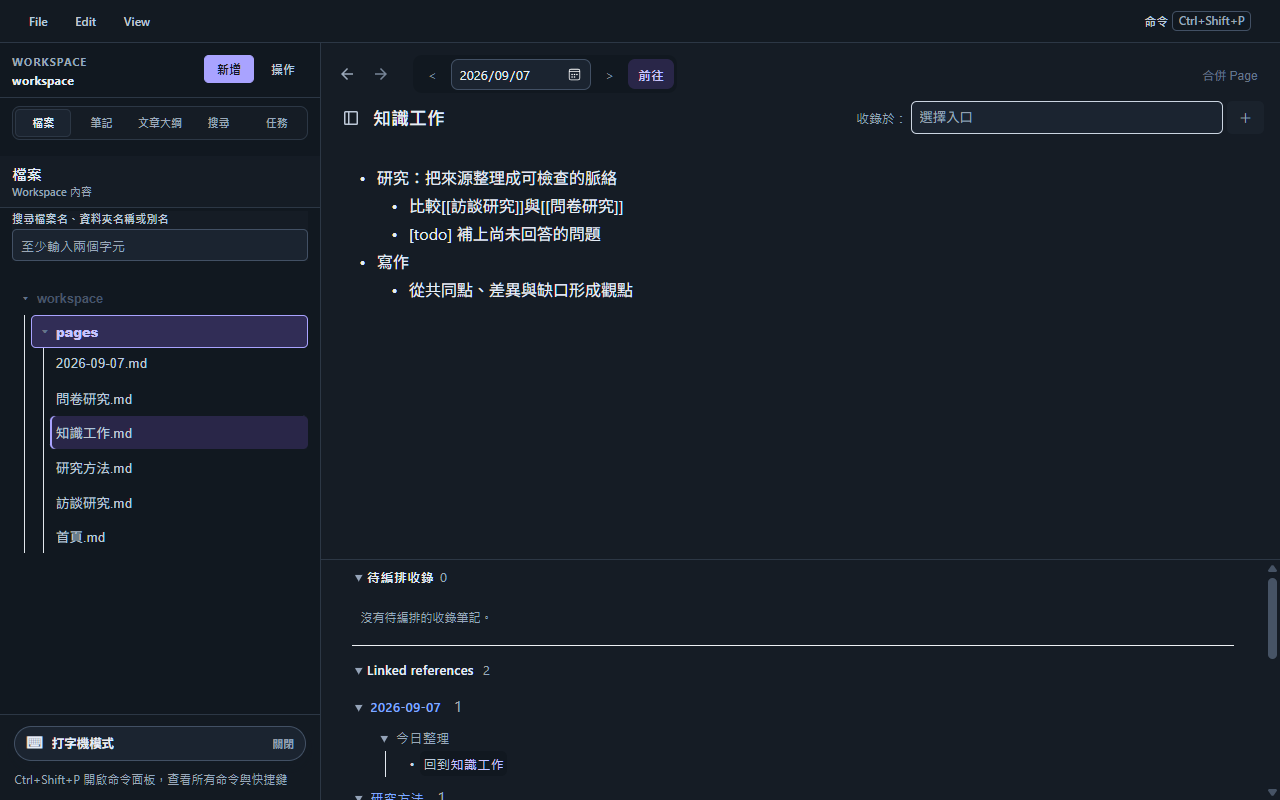
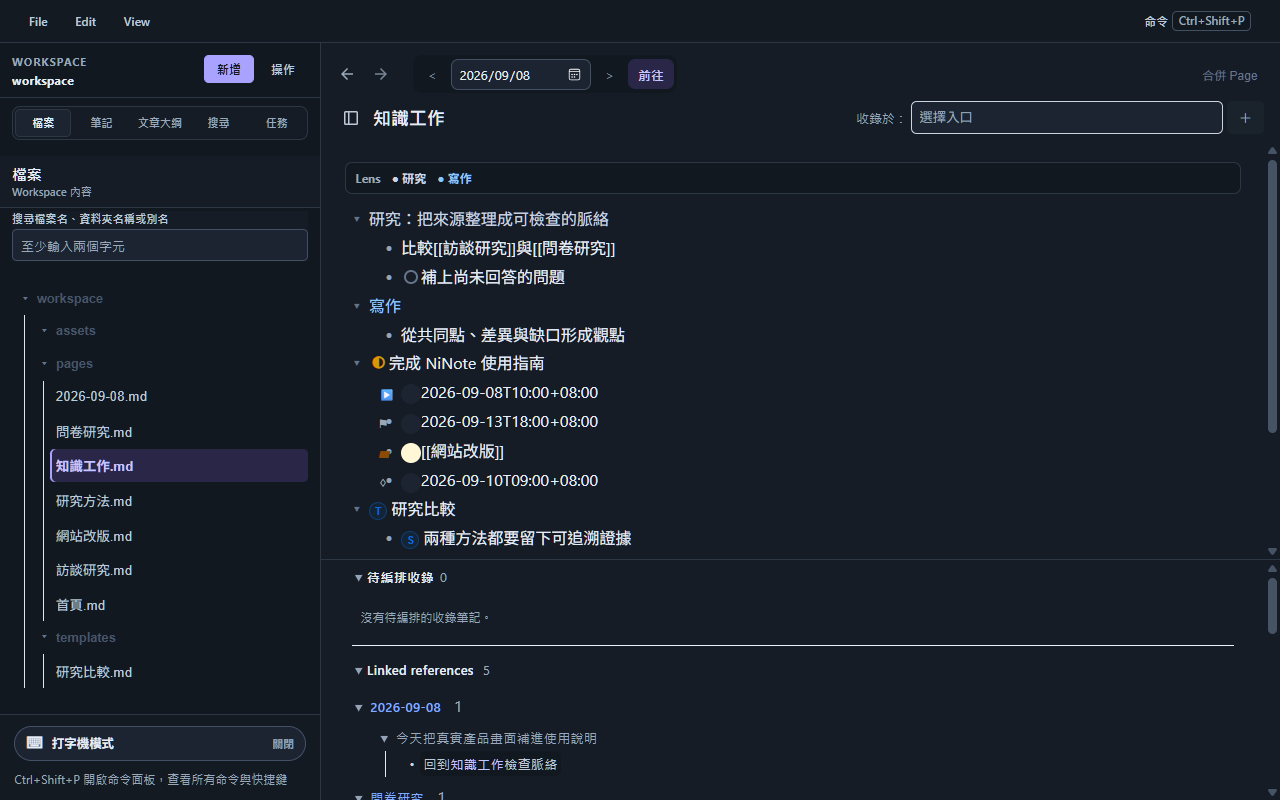
讓使用說明呈現真實 NiNote 畫面

diff --git a/app/guide.css b/app/guide.css
@@ -49,6 +49,13 @@
 .docs-code-bar { display: flex; align-items: center; justify-content: space-between; min-height: 2.55rem; padding: 0 .8rem; border-bottom: 1px solid var(--line); background: var(--preview-bar); color: var(--quiet); font-family: ui-monospace, SFMono-Regular, Consolas, monospace; font-size: .67rem; text-transform: uppercase; }
 .docs-code-bar button { display: inline-flex; align-items: center; gap: .35rem; padding: .3rem .5rem; border: 1px solid var(--line); border-radius: .38rem; background: var(--surface-soft); color: var(--muted); cursor: pointer; font-size: .68rem; }
 .docs-code pre { margin: 0; padding: 1.1rem 1.25rem; overflow-x: auto; color: var(--text-soft); font-family: 'Cascadia Code', 'SFMono-Regular', Consolas, monospace; font-size: .82rem; line-height: 1.8; tab-size: 2; }
+.docs-media { margin: 1.5rem 0 2rem; }
+.docs-media a { position: relative; display: block; overflow: hidden; border: 1px solid var(--line); border-radius: .72rem; background: var(--preview-editor); box-shadow: 0 1.1rem 2.8rem color-mix(in srgb, var(--shadow) 28%, transparent); }
+.docs-media img { display: block; width: 100%; height: auto; aspect-ratio: 8 / 5; object-fit: contain; }
+.docs-media-open { position: absolute; right: .7rem; bottom: .7rem; display: inline-flex; align-items: center; gap: .35rem; padding: .42rem .58rem; border: 1px solid rgb(255 255 255 / 18%); border-radius: .42rem; background: rgb(7 11 17 / 82%); color: #e8edf6; font-size: .7rem; opacity: 0; transform: translateY(.2rem); transition: opacity 150ms ease, transform 150ms ease; }
+.docs-media a:hover .docs-media-open, .docs-media a:focus-visible .docs-media-open { opacity: 1; transform: none; }
+.docs-media a:focus-visible { outline: 2px solid var(--cyan); outline-offset: 3px; }
+.docs-media figcaption { margin-top: .75rem; color: var(--quiet); font-size: .78rem; line-height: 1.65; }
 .docs-pagination { display: grid; grid-template-columns: 1fr 1fr; gap: 1rem; margin-top: 5rem; padding-top: 2rem; border-top: 1px solid var(--line); }
 .docs-pagination a { display: flex; align-items: center; gap: .7rem; padding: 1rem; border: 1px solid var(--line); border-radius: .65rem; color: var(--text-soft); font-size: .82rem; transition: border-color 150ms ease, transform 150ms ease; }
 .docs-pagination a:hover { border-color: color-mix(in srgb, var(--cyan) 45%, var(--line)); transform: translateY(-2px); }.docs-pagination a:last-child { justify-content: flex-end; text-align: right; }.docs-pagination small { display: block; margin-bottom: .18rem; color: var(--quiet); font-size: .65rem; }
@@ -57,23 +64,6 @@
 .docs-toc > span { display: block; margin-bottom: .7rem; color: var(--text-soft); font-size: .72rem; font-weight: 700; }
 .docs-toc a { display: block; margin: .4rem 0; color: var(--quiet); font-size: .72rem; line-height: 1.5; transition: color 140ms ease; }.docs-toc a:hover { color: var(--cyan); }
 
-.concept-animation { position: relative; display: grid; grid-template-columns: 1fr 3.5rem 1fr 3.5rem 1fr; align-items: center; min-height: 13rem; margin: 3rem 0 1rem; padding: 1.4rem; overflow: hidden; border: 1px solid var(--line); border-radius: .8rem; background: radial-gradient(circle at 50% 50%, color-mix(in srgb, var(--cyan) 7%, transparent), transparent 65%), var(--surface); }
-.concept-source, .concept-structure, .concept-views { height: 8.5rem; border: 1px solid var(--line); border-radius: .6rem; background: var(--surface-raised); }
-.concept-source { padding: .8rem; }.concept-caption { display: flex; align-items: center; gap: .4rem; margin-bottom: 1rem; color: var(--text-soft); font-size: .7rem; font-weight: 700; }
-.code-line { display: block; height: .4rem; margin: .65rem 0; border-radius: 999px; background: linear-gradient(90deg, color-mix(in srgb, var(--cyan) 70%, transparent), color-mix(in srgb, var(--cyan) 8%, transparent)); transform-origin: left; animation: type-line 4.8s ease-in-out infinite; }
-.code-line:nth-child(3) { animation-delay: .28s; }.code-line:nth-child(4) { animation-delay: .56s; }.code-line.indent { margin-left: 1rem; }.line-long { width: 90%; }.line-medium { width: 70%; }.line-short { width: 50%; }
-.concept-rail { position: relative; height: 1px; background: var(--line-strong); }.concept-rail::after { content: ''; position: absolute; top: -3px; right: -1px; width: 7px; height: 7px; border-top: 1px solid var(--cyan); border-right: 1px solid var(--cyan); transform: rotate(45deg); }
-.concept-rail i { position: absolute; top: -3px; left: 0; width: 7px; height: 7px; border-radius: 50%; background: var(--cyan); box-shadow: 0 0 .8rem var(--cyan); animation: travel 2.4s ease-in-out infinite; }
-.concept-structure { position: relative; }.structure-node { position: absolute; display: grid; place-items: center; width: 3.2rem; height: 2rem; border: 1px solid color-mix(in srgb, var(--cyan) 35%, var(--line)); border-radius: 999px; background: var(--surface); color: var(--muted); font-size: .62rem; animation: pulse-node 4.8s ease-in-out infinite; }.root-node { top: .8rem; left: calc(50% - 1.6rem); }.child-one { bottom: .8rem; left: .7rem; }.child-two { right: .7rem; bottom: .8rem; }
-.structure-link { position: absolute; top: 3.45rem; left: 50%; width: 1px; height: 2rem; background: var(--line-strong); transform-origin: top; }.link-one { transform: rotate(45deg); }.link-two { transform: rotate(-45deg); }
-.concept-views { display: grid; grid-template-columns: 1fr 1fr; gap: .4rem; padding: .55rem; }.concept-views > div { display: flex; flex-direction: column; align-items: center; justify-content: center; gap: .25rem; border: 1px solid var(--line); border-radius: .4rem; color: var(--cyan); font-size: .55rem; animation: view-pop 4.8s ease-in-out infinite; }.concept-views > div:nth-child(2) { animation-delay: .25s; }.concept-views > div:nth-child(3) { animation-delay: .5s; }
-.matrix-mini { display: grid !important; grid-template-columns: 1fr 1fr; gap: .16rem !important; padding: .5rem; }.matrix-mini i { width: 100%; height: 100%; border-radius: .12rem; background: color-mix(in srgb, var(--violet) 45%, transparent); }
-
-@keyframes type-line { 0%, 12% { transform: scaleX(0); opacity: .2; } 35%, 78% { transform: scaleX(1); opacity: 1; } 100% { transform: scaleX(0); opacity: .2; } }
-@keyframes travel { 0% { transform: translateX(0); opacity: 0; } 20% { opacity: 1; } 80% { opacity: 1; } 100% { transform: translateX(3.2rem); opacity: 0; } }
-@keyframes pulse-node { 0%, 25% { border-color: var(--line); } 45%, 75% { border-color: var(--cyan); box-shadow: 0 0 1rem color-mix(in srgb, var(--cyan) 18%, transparent); } 100% { border-color: var(--line); } }
-@keyframes view-pop { 0%, 45% { opacity: .35; transform: translateY(4px); } 65%, 90% { opacity: 1; transform: translateY(0); } 100% { opacity: .35; transform: translateY(4px); } }
-
 @media (max-width: 1180px) {
   .docs-layout { grid-template-columns: 15.5rem minmax(0, 50rem); gap: 2.5rem; }.docs-toc { display: none; }
 }
@@ -81,13 +71,10 @@
   .docs-header { grid-template-columns: 1fr auto; padding: 0 .8rem; }.docs-menu-button { display: grid; }.docs-top-nav { display: none; }.docs-theme-switch span { display: none; }.docs-theme-switch button { width: 2rem; justify-content: center; padding: 0; }
   .docs-layout { display: block; padding: 4.25rem 1.1rem 0; }.docs-sidebar { position: fixed; top: 4.25rem; bottom: 0; left: 0; z-index: 40; width: min(20rem, 88vw); height: auto; padding: 1.2rem; border-right: 1px solid var(--line); background: var(--background); transform: translateX(-105%); transition: transform 180ms ease; }.docs-sidebar.open { transform: translateX(0); box-shadow: 1rem 0 3rem var(--shadow); }
   .docs-article { max-width: 50rem; margin: 0 auto; padding-top: 3rem; }
-  .concept-animation { grid-template-columns: 1fr; gap: 1rem; }.concept-rail { width: 1px; height: 2rem; margin: 0 auto; }.concept-rail::after { top: auto; right: -3px; bottom: -1px; transform: rotate(135deg); }.concept-rail i { top: 0; left: -3px; animation: travel-down 2.4s ease-in-out infinite; }.concept-source, .concept-structure, .concept-views { width: min(18rem, 100%); margin: 0 auto; }
 }
 @media (max-width: 520px) {
   .docs-layout { padding-inline: .85rem; }.docs-article h1 { font-size: 2.5rem; }.docs-pagination { grid-template-columns: 1fr; }.docs-pagination > span { display: none; }
 }
-@keyframes travel-down { 0% { transform: translateY(0); opacity: 0; } 20% { opacity: 1; } 80% { opacity: 1; } 100% { transform: translateY(2rem); opacity: 0; } }
-
 @media (prefers-reduced-motion: reduce) {
-  .code-line, .concept-rail i, .structure-node, .concept-views > div { animation: none !important; opacity: 1; transform: none; }
+  .docs-media-open { transition: none; }
 }

diff --git a/app/guide-content.ts b/app/guide-content.ts
@@ -3,6 +3,7 @@ export type DocBlock =
   | { type: 'list'; items: string[] }
   | { type: 'steps'; items: string[] }
   | { type: 'code'; language: string; code: string }
+  | { type: 'media'; src: string; alt: string; caption: string; width: number; height: number }
   | { type: 'note'; tone?: 'info' | 'warning'; title: string; text: string };
 
 export type DocSection = {
@@ -30,7 +31,101 @@ export const categories = [
   { title: '檔案與產品邊界', pages: ['files', 'scope'] },
 ];
 
-export const docs: DocPage[] = [
+type GuideMediaPlacement = {
+  sectionId: string;
+  block: Extract<DocBlock, { type: 'media' }>;
+};
+
+const media = (src: string, alt: string, caption: string): GuideMediaPlacement['block'] => ({
+  type: 'media', src, alt, caption, width: 1280, height: 800,
+});
+
+export const guideMediaByPage: Record<string, GuideMediaPlacement[]> = {
+  'overview': [{ sectionId: 'what-is-ninote', block: media(
+    '../product-media/guide-workspace.png',
+    'NiNote Desktop 主工作區，左側是本機 Workspace 檔案，中間以 NiMode 編輯知識工作 Page，右下顯示反向連結。',
+    '實際 NiNote Desktop：一份本機 Markdown，同時提供檔案、Block 編輯、Lens、Task 與 References。',
+  ) }],
+  'workspace': [{ sectionId: 'choose-folder', block: media(
+    '../product-media/guide-files.png',
+    'NiNote Desktop 的檔案側欄展開 workspace、pages、templates 與 assets 資料夾。',
+    '從左側「檔案」管理 Working Folder；初始化後的 Workspace 仍是一般資料夾與 Markdown 檔案。',
+  ) }],
+  'editor-modes': [
+    { sectionId: 'mode-comparison', block: media('../product-media/workspace-nimode.png', 'NiNote 的 NiMode，以可摺疊 Block、Lens、Task 狀態與語意圖示呈現 Markdown。', 'NiMode：以 Block 階層與結構操作為中心。') },
+    { sectionId: 'mode-comparison', block: media('../product-media/workspace-rendered.png', 'NiNote 的 Rendered Mode，在同一工作區呈現接近閱讀結果的 Markdown。', 'Rendered Mode：保留 Markdown 語意的自然編輯畫面。') },
+    { sectionId: 'mode-comparison', block: media('../product-media/workspace-source.png', 'NiNote 的 Source Mode，直接顯示同一份 Markdown 原始文字。', 'Source Mode：檢查與精確編輯真正保存的 Markdown。') },
+  ],
+  'blocks': [{ sectionId: 'block-basics', block: media(
+    '../product-media/workspace-nimode.png',
+    'NiMode 中的多層 Block、摺疊控制、Task Block 與 Template Block。',
+    'NiMode 直接把 Markdown list hierarchy 呈現成可摺疊、可縮排的 Block。',
+  ) }],
+  'appearance': [{ sectionId: 'app-theme', block: media(
+    '../product-media/guide-appearance.png',
+    'NiNote View 選單展開，顯示 NiMode、Rendered Mode、Source Mode、主題與 Markdown 樣式選項。',
+    'View 選單同時管理編輯模式、介面主題、文件樣式與各種衍生 View。',
+  ) }],
+  'page-links': [{ sectionId: 'references', block: media(
+    '../product-media/guide-page-links.png',
+    '知識工作 Page 內含可點擊 Page Links，右側 Links View 列出多個 Linked references。',
+    'Page Link 留在 Markdown；Links View 從整個 Workspace 找回引用它的原始脈絡。',
+  ) }],
+  'templates': [{ sectionId: 'trace-instances', block: media(
+    '../product-media/guide-templates.png',
+    'NiNote 開啟 templates 研究比較定義，Links View 顯示 Template references 與 Slot references。',
+    'Template definition、instance 與每個 Slot 的引用，都能從正式 Links View 追溯。',
+  ) }],
+  'lens': [{ sectionId: 'set-lens', block: media(
+    '../product-media/guide-lens.png',
+    'NiMode 顯示研究與寫作兩個 Semantic Lens，Block 文字依 Lens 採用穩定色彩。',
+    'Lens 是 Markdown 內的可攜標記；NiMode 隱藏 raw marker，保留可辨識的語意呈現。',
+  ) }],
+  'markmap': [{ sectionId: 'open-markmap', block: media(
+    '../product-media/guide-markmap.png',
+    'NiNote MarkMap 原生視窗，中央是目前 Page 的心智圖，頂部有縮放、重新收合與主動回想控制。',
+    'MarkMap 從目前 Page 的 Block hierarchy 建立，並在獨立視窗提供導覽與主動回想。',
+  ) }],
+  'matrix': [{ sectionId: 'read-result', block: media(
+    '../product-media/guide-matrix.png',
+    'NiNote Matrix 顯示知識工作 Page 的比較面向、欄位與共有或空值分類。',
+    'Matrix 是唯讀分類檢查器：看共同、部分與獨有面向，再導回原始 Block。',
+  ) }],
+  'graphs': [
+    { sectionId: 'page-graph', block: media('../product-media/guide-page-graph.png', 'NiNote Page Graph 以目前知識工作 Page 為中心，顯示連入 Page 與導覽控制。', 'Page Graph：聚焦目前 Page 的反向連結脈絡。') },
+    { sectionId: 'workspace-graph', block: media('../product-media/guide-workspace-graph.png', 'NiNote Workspace Graph 顯示整個 Workspace 的 Page 關係網路與篩選控制。', 'Workspace Graph：從所有可解析 Page Links 重建全域關係。') },
+  ],
+  'search-navigation': [
+    { sectionId: 'search-levels', block: media('../product-media/guide-search.png', 'NiNote Workspace 搜尋側欄顯示證據關鍵字在三個 Markdown 檔案中的結果與原文片段。', 'Workspace 搜尋保留檔案分組、命中位置與上下文。') },
+    { sectionId: 'command-palette', block: media('../product-media/guide-command-palette.png', 'NiNote 命令面板列出檔案、Workspace、導覽、View 與 Editor 命令及快捷鍵。', '命令面板集中列出目前可用的命令、快捷鍵與不可執行原因。') },
+  ],
+  'journal': [{ sectionId: 'open-journal', block: media(
+    '../product-media/guide-journal.png',
+    'NiNote Daily Journal 顯示日期導覽、當日 Markdown Page 與回到知識工作的 Page Link。',
+    '啟動 Initialized Workspace 時，NiNote 以原生日期導覽開啟或安全建立當日 Journal。',
+  ) }],
+  'tasks': [{ sectionId: 'use-task-center', block: media(
+    '../product-media/guide-task-center.png',
+    'NiNote Task Center 側欄依 Page 彙整任務，顯示狀態、日期、Project 與篩選控制。',
+    'Task Center 是跨 Markdown Page 的可重建索引；任務本身仍只存在原始 Block。',
+  ) }],
+  'task-time': [
+    { sectionId: 'add-property', block: media('../product-media/guide-task-center.png', 'Task Center 任務列顯示開始、截止、提醒與 Project property badges。', '時間與 Project property 會在 Task Center 以可讀 badge 呈現。') },
+    { sectionId: 'task-calendar', block: media('../product-media/guide-task-calendar.png', 'NiNote Task Calendar 原生視窗顯示當月月曆、日期類型篩選與任務 occurrence。', 'Task Calendar 依 Task Property 的實際日期，把來源任務投影到月份格線。') },
+  ],
+  'files': [{ sectionId: 'bring-files-in', block: media(
+    '../product-media/guide-files.png',
+    'NiNote Files View 顯示一般 Workspace 資料夾、Markdown pages、templates 與 assets。',
+    '附件與 Page 都保留在一般 Workspace 結構中；外部工具可以直接備份或版本控制。',
+  ) }],
+  'scope': [{ sectionId: 'current-focus', block: media(
+    '../product-media/guide-workspace.png',
+    '目前 NiNote Windows Desktop 的完整主工作區，包含 Workspace、NiMode 與 Links View。',
+    '目前範圍以 Windows Desktop、本機 Markdown Workspace 與可重建 View 為核心。',
+  ) }],
+};
+
+const baseDocs: DocPage[] = [
   {
     id: 'overview', category: '開始使用', title: '認識 NiNote',
     description: '先理解 NiNote 的資料模型、適用情境，以及每一種 View 和 Markdown 來源的關係。',
@@ -319,5 +414,19 @@ export const docs: DocPage[] = [
     ],
   },
 ];
+
+export const docs: DocPage[] = baseDocs.map((page) => {
+  const placements = guideMediaByPage[page.id] ?? [];
+  return {
+    ...page,
+    sections: page.sections.map((section) => ({
+      ...section,
+      blocks: [
+        ...placements.filter((placement) => placement.sectionId === section.id).map((placement) => placement.block),
+        ...section.blocks,
+      ],
+    })),
+  };
+});
 
 export const docsById = new Map(docs.map((doc) => [doc.id, doc]));

diff --git a/app/guide-page.tsx b/app/guide-page.tsx
@@ -1,7 +1,7 @@
 import { useEffect, useMemo, useState } from 'react';
 import {
   ArrowLeft, ArrowRight, BookOpen, Check, CheckCircle2, ChevronRight,
-  Clipboard, FileCode2, FolderTree, Menu, Moon, Network, Search, Sun, X,
+  Clipboard, ExternalLink, Menu, Moon, Search, Sun, X,
 } from 'lucide-react';
 import { categories, docs, docsById, type DocBlock, type DocPage } from './guide-content';
 
@@ -16,33 +16,6 @@ function ThemeSwitch({ theme, setTheme }: { theme: Theme; setTheme: (theme: Them
     <div className="theme-switch docs-theme-switch" role="group" aria-label="網站色彩主題">
       <button type="button" className={theme === 'light' ? 'active' : ''} onClick={() => setTheme('light')} aria-pressed={theme === 'light'} aria-label="切換為淺色主題"><Sun size={15} /><span>淺色</span></button>
       <button type="button" className={theme === 'dark' ? 'active' : ''} onClick={() => setTheme('dark')} aria-pressed={theme === 'dark'} aria-label="切換為深色主題"><Moon size={15} /><span>深色</span></button>
-    </div>
-  );
-}
-
-function AnimatedConceptMap() {
-  return (
-    <div className="concept-animation" aria-label="Markdown 轉換成結構與多種 View 的動態示意">
-      <div className="concept-source">
-        <div className="concept-caption"><FileCode2 size={15} /> Markdown</div>
-        <span className="code-line line-long" />
-        <span className="code-line line-medium indent" />
-        <span className="code-line line-short indent" />
-      </div>
-      <div className="concept-rail" aria-hidden="true"><i /></div>
-      <div className="concept-structure">
-        <span className="structure-node root-node">Page</span>
-        <span className="structure-link link-one" />
-        <span className="structure-link link-two" />
-        <span className="structure-node child-one">Block</span>
-        <span className="structure-node child-two">Link</span>
-      </div>
-      <div className="concept-rail" aria-hidden="true"><i /></div>
-      <div className="concept-views">
-        <div><FolderTree size={18} /><span>Outline</span></div>
-        <div><Network size={18} /><span>Graph</span></div>
-        <div className="matrix-mini"><i /><i /><i /><i /></div>
-      </div>
     </div>
   );
 }
@@ -66,6 +39,15 @@ function CodeBlock({ language, code }: { language: string; code: string }) {
 function RenderBlock({ block }: { block: DocBlock }) {
   if (block.type === 'paragraph') return <p>{block.text}</p>;
   if (block.type === 'code') return <CodeBlock language={block.language} code={block.code} />;
+  if (block.type === 'media') return (
+    <figure className="docs-media">
+      <a href={block.src} target="_blank" rel="noreferrer" aria-label={`${block.alt}（開啟原始尺寸）`}>
+        <img src={block.src} alt={block.alt} width={block.width} height={block.height} decoding="async" />
+        <span className="docs-media-open"><ExternalLink size={14} />開啟原圖</span>
+      </a>
+      <figcaption>{block.caption}</figcaption>
+    </figure>
+  );
   if (block.type === 'note') return <aside className={`docs-callout ${block.tone === 'warning' ? 'warning' : ''}`}><CheckCircle2 size={18} /><div><strong>{block.title}</strong><p>{block.text}</p></div></aside>;
   if (block.type === 'steps') return <ol className="docs-steps">{block.items.map((item, index) => <li key={item}><span>{index + 1}</span><p>{item}</p></li>)}</ol>;
   return <ul className="docs-list">{block.items.map((item) => <li key={item}>{item}</li>)}</ul>;
@@ -81,7 +63,6 @@ function Article({ page }: { page: DocPage }) {
       <div className="docs-breadcrumb"><span>使用說明</span><ChevronRight size={13} /><span>{page.category}</span></div>
       <h1>{page.title}</h1>
       <p className="docs-lead">{page.description}</p>
-      {page.id === 'overview' && <AnimatedConceptMap />}
       {page.sections.map((section) => (
         <section id={section.id} key={section.id}>
           <h2>{section.title}</h2>
